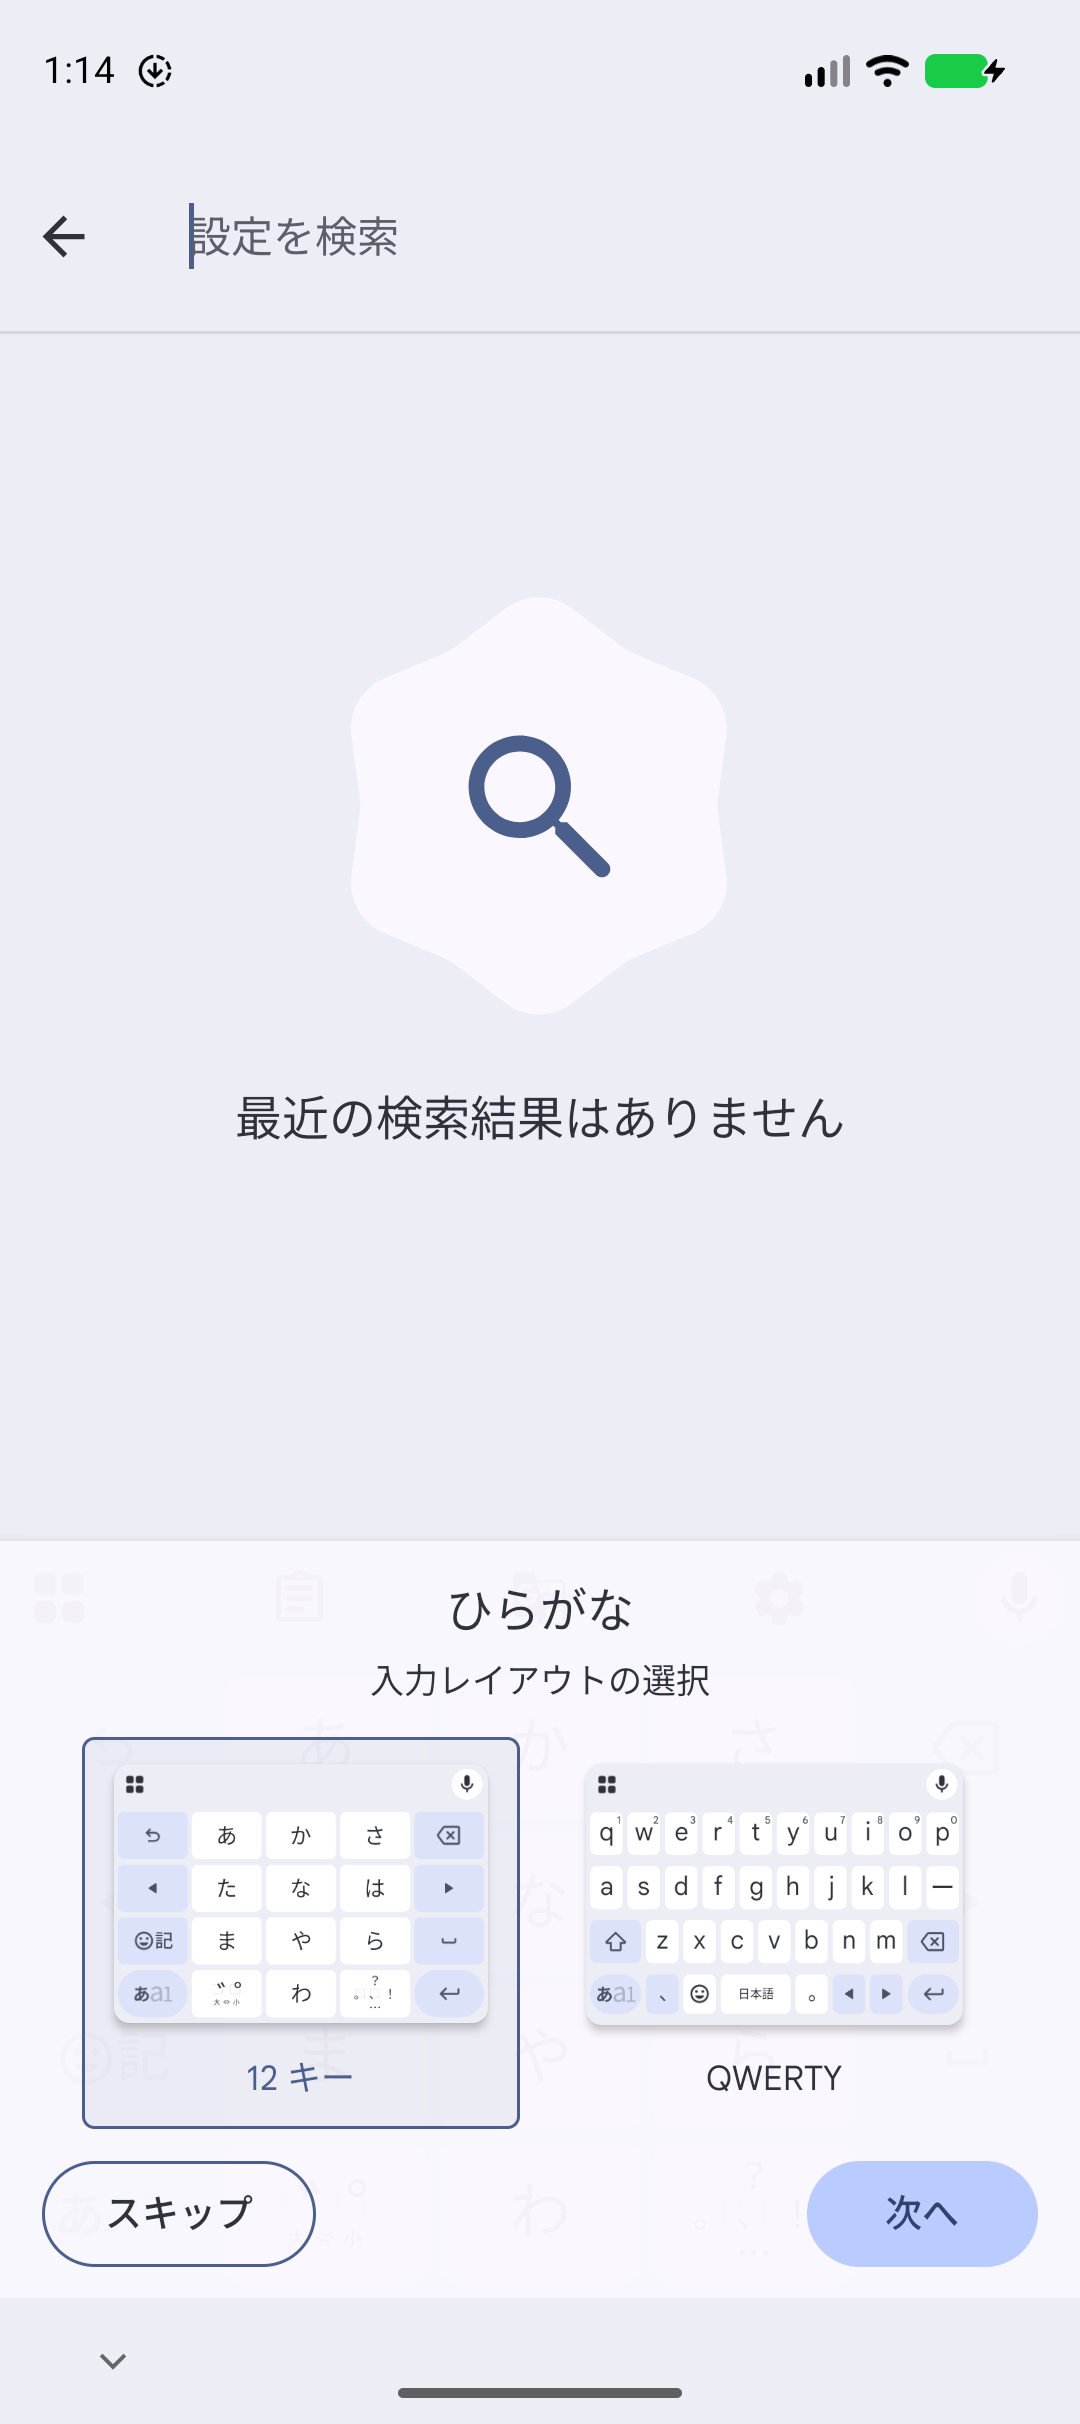
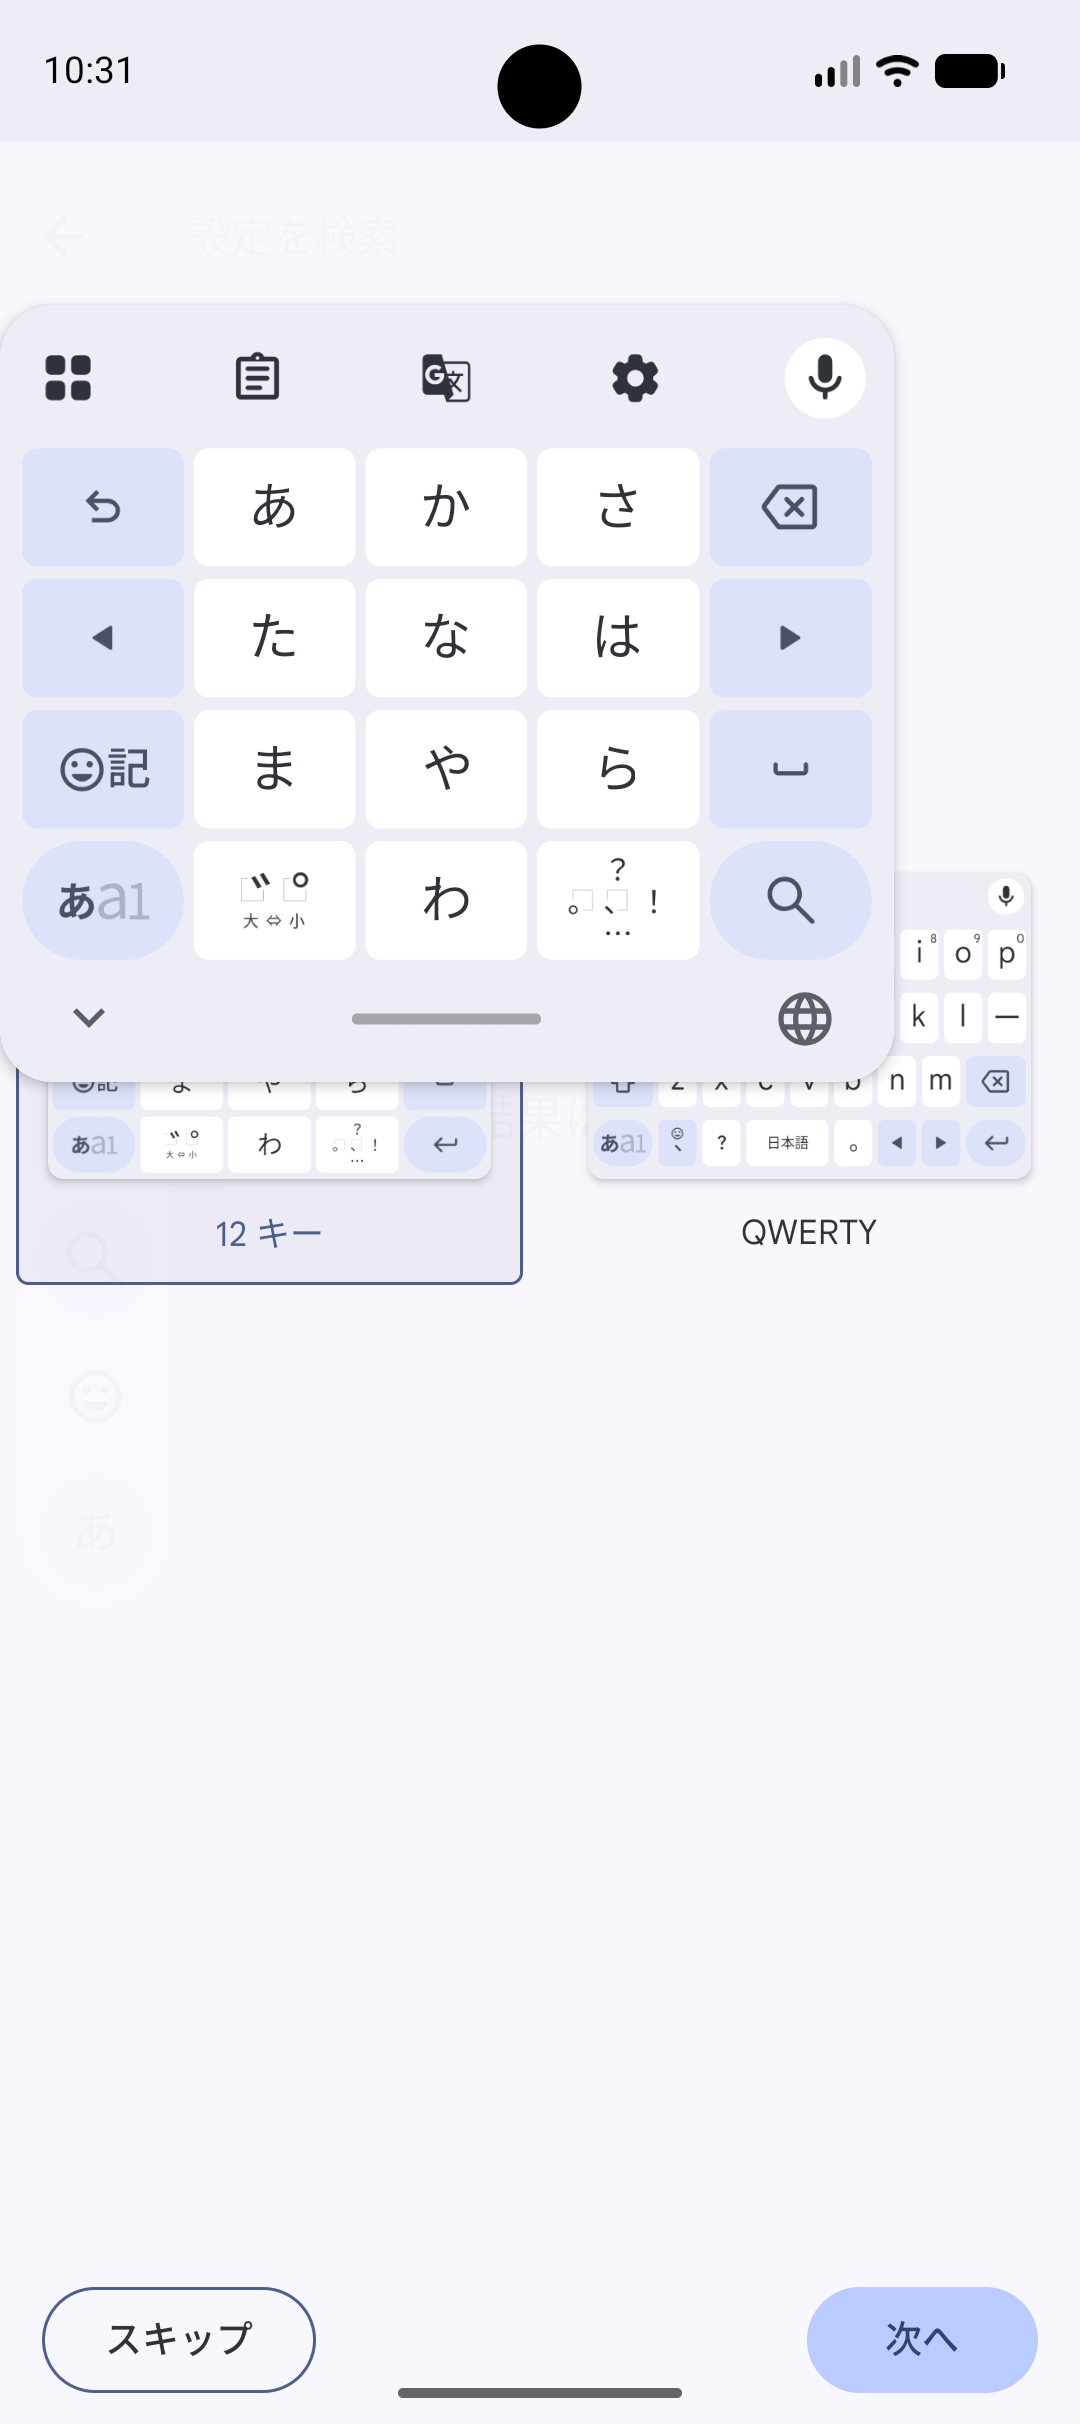
共通資料（setup.html）：不要セクション「9. 動くことを確かめる」の削除と日本語キーボード設定手順の補強

diff --git a/docs/common/setup.html b/docs/common/setup.html
@@ -8,10 +8,10 @@
 <main id="main"><div class="hero"><p class="eyebrow">ANDROID PROGRAMMING 1 / 共通資料・授業サポート</p><h1>授業を始めるまでの<br>準備</h1><p class="lede">教材を受け取ってから、最初のアプリが動くまで。上から順に1回だけ行います。2回目からは、教科書を開くところから始められます。</p></div>
 
 <section id="flow"><h2>この資料の流れ</h2>
-<div class="flow"><strong>① 教材を受け取る</strong><span>→</span><strong>② Android Studio</strong><span>→</span><strong>③ 置き場を作る</strong><span>→</span><strong>④ adbの準備</strong><span>→</span><strong>⑤ エミュレータ</strong><span>→</span><strong>⑥ 日本語にする</strong><span>→</span><strong>⑦ キーボード</strong><span>→</span><strong>⑧ ほかの設定</strong><span>→</span><strong>⑨ 動かして確かめる</strong></div>
+<div class="flow"><strong>① 教材を受け取る</strong><span>→</span><strong>② Android Studio</strong><span>→</span><strong>③ 置き場を作る</strong><span>→</span><strong>④ adbの準備</strong><span>→</span><strong>⑤ エミュレータ</strong><span>→</span><strong>⑥ 日本語にする</strong><span>→</span><strong>⑦ キーボード</strong><span>→</span><strong>⑧ ほかの設定</strong></div>
 <p>番号は、下の見出しの番号と同じです。③・④・⑥では、Terminal（ターミナル）に文字を打ちます。そのほかは、FinderやAndroid Studio、エミュレータの画面を操作します。</p>
 <div class="note"><p class="box-title">つまずいたら、そこで止めて先生を呼んでください</p><p>各ステップに「成功の目印」があります。目印と違う画面になったら、先に進まずに、その画面のまま先生に見せてください。前に戻ってやり直すより早く終わります。</p></div>
-<div class="goal"><p class="box-title">この準備が終わると</p><p>自分のMacで、日本語が打てるAndroidの練習用端末が動き、A01の完成アプリを実行できる状態になります。</p></div></section>
+<div class="goal"><p class="box-title">この準備が終わると</p><p>自分のMacで、日本語が打てるAndroidの練習用端末が動く状態になります。</p></div></section>
 
 <section id="materials"><h2>1. 教材を受け取り、「書類」に置く</h2>
 <p>授業で使う教科書（きょうかしょ）は、Google Classroomで配られます。ファイルを1つダウンロードし、置き場所を決めるところまでを行います。</p>
@@ -114,10 +114,22 @@ emulator-5554	device</code></pre>
 <p>エミュレータの画面で操作します。文字を入力できるところなら、どこでも構いません。</p>
 <ol>
 <li>エミュレータで、文字を入力する欄を<strong>タップ</strong>します。設定アプリの「設定を検索」の欄が分かりやすいです。</li>
-<li><strong>ひらがな　入力レイアウトの選択</strong> と出ます。左の <strong>12 キー</strong> が選ばれた状態のまま、右下の <strong>次へ</strong> をタップします。</li>
+<li>画面の左端に、縦型のツールバー（マイクや「あ」のアイコン）が出ます。Macのキーボードがつながっていると、画面キーボードが自動では開かず、このツールバーが表示されます。</li>
 </ol>
-<div class="phone"><figure><a href="images/gboard-hiragana-layout.png"><img src="images/gboard-hiragana-layout.png" width="1080" height="2424" alt="ひらがな　入力レイアウトの選択のダイアログ。左に12キー、右にQWERTYの絵が並び、左の12キーが青い枠で選ばれている。下にスキップと次へのボタンがある"></a><figcaption>左の <strong>12 キー</strong> のまま <strong>次へ</strong> をタップします。 <a href="images/gboard-hiragana-layout.png">画像を大きく開く</a></figcaption></figure></div>
+<div class="note"><p class="box-title">「物理キーボードと画面キーボードのレイアウトが一致していません」と出たとき</p><p>吹き出しが出た場合は、<strong>いいえ</strong> をタップするか、そのままにして進めて大丈夫です。</p></div>
 <ol start="3">
+<li>縦型ツールバーの一番下にある <strong>あ</strong> のアイコンをタップします。</li>
+<li>メニューが開くので、<strong>画面キーボードを表示する</strong> をタップします。</li>
+</ol>
+<div class="phones">
+<figure><a href="images/gboard-vertical-toolbar.png"><img src="images/gboard-vertical-toolbar.png" width="1080" height="2424" alt="文字入力欄をタップしたエミュレータ画面。画面左端にマイクやあなどのアイコンが並ぶ縦型ツールバーが表示され、物理キーボードの調整を確認する吹き出しが出ている"></a><figcaption>入力欄をタップすると左端に縦型ツールバーが出ます。一番下の <strong>あ</strong> をタップします。 <a href="images/gboard-vertical-toolbar.png">画像を大きく開く</a></figcaption></figure>
+<figure><a href="images/gboard-menu-show-keyboard.png"><img src="images/gboard-menu-show-keyboard.png" width="1080" height="2424" alt="あアイコンをタップして開いたメニュー画面。設定、手書き入力、画面キーボードを表示するなどの項目が並んでいる"></a><figcaption>メニューが開くので、<strong>画面キーボードを表示する</strong> をタップします。 <a href="images/gboard-menu-show-keyboard.png">画像を大きく開く</a></figcaption></figure>
+</div>
+<ol start="5">
+<li>画面キーボードと一緒に <strong>ひらがな　入力レイアウトの選択</strong> が出ます。左の <strong>12 キー</strong> が選ばれた状態のまま、右下の <strong>次へ</strong> をタップします。</li>
+</ol>
+<div class="phone"><figure><a href="images/gboard-hiragana-layout.png"><img src="images/gboard-hiragana-layout.png" width="1080" height="2424" alt="ひらがな　入力レイアウトの選択のダイアログとキーボード。左に12キー、右にQWERTYが並び、左の12キーが選ばれている。右下に次へのボタンがある"></a><figcaption>左の <strong>12 キー</strong> のまま <strong>次へ</strong> をタップします。 <a href="images/gboard-hiragana-layout.png">画像を大きく開く</a></figcaption></figure></div>
+<ol start="6">
 <li>続けて <strong>アルファベット　入力レイアウトの選択</strong> が出たら、同じように <strong>12 キー</strong> のまま <strong>完了</strong> をタップします。この2ページ目は、出ないこともあります。</li>
 <li>キーボードが出ます。数字の電話のような形で、左下に <strong>あa1</strong> というキーがあります。</li>
 </ol>
@@ -145,21 +157,11 @@ emulator-5554	device</code></pre>
 <tr><td>タイムゾーン（時計）</td><td>そのまま</td></tr>
 <tr><td>フォントサイズ（文字の大きさ）</td><td>そのまま</td></tr>
 </tbody></table>
-<div class="note"><p class="box-title">インターネット接続だけ確認してください</p><p>Macがインターネットにつながっている必要があります。キーボードの漢字の変換候補や、授業で作るアプリの動作に使います。</p></div></section>
-
-<section id="run"><h2>9. 動くことを確かめる</h2>
-<p>最後に、できあがった環境でアプリが動くことを確かめます。A01の<strong>完成プロジェクト</strong>（先生が作った見本）を開いて実行します。見本は、手順1で「書類」に置いた教材のフォルダの <code>samples</code> に、そのまま開ける形で入っています。ダウンロードも展開も要りません。</p>
-<ol>
-<li>Android Studioの最初の画面で <strong>Open</strong> をクリックします。</li>
-<li>手順1で「書類」に置いた教材のフォルダを開き、その中の <code>samples</code> フォルダを開きます。一覧にある <code>A01HelloAndroid</code> フォルダを選び、<strong>開く（Open）</strong> をクリックします。</li>
-<li>画面の下で <strong>Gradle Sync</strong> という処理が終わるまで待ちます。初回は数分かかります。</li>
-<li>上部の端末の選択欄で <code>jec_26cm_android1_Pixel 9a</code> を選び、<strong>Run ▶</strong> をクリックします。</li>
-</ol>
-<div class="check"><p class="box-title">成功の目印</p><p>エミュレータにアプリが表示され、<strong>Hello World!</strong> という文字と、その下にボタンが並んでいる。</p></div>
+<div class="note"><p class="box-title">インターネット接続だけ確認してください</p><p>Macがインターネットにつながっている必要があります。キーボードの漢字の変換候補や、授業で作るアプリの動作に使います。</p></div>
 <p>ここまでできたら、準備は終わりです。次の授業からは、教科書を開くところから始められます。</p>
 <p><a class="button-link" href="../hello-android/index.html">A01：はじめてのアプリ作りへ進む →</a></p></section>
 
-<section id="trouble"><h2>10. うまくいかないとき</h2>
+<section id="trouble"><h2>9. うまくいかないとき</h2>
 <table><thead><tr><th>出たもの・起きたこと</th><th>やってみること</th></tr></thead><tbody>
 <tr><td><code>zsh: command not found: adb</code></td><td>手順4の <code>export</code> の行をもう一度実行する。Terminalを開き直すと、毎回この状態に戻る。</td></tr>
 <tr><td><code>adb: more than one device/emulator</code></td><td>エミュレータが2つ以上起動している。1つだけにしてやり直す。</td></tr>
@@ -178,7 +180,7 @@ emulator-5554	device</code></pre>
 <li><a href="other-versions.html" data-keep-from>ちがうAndroid Studioのバージョンで進めるとき</a>（自分のMacなどで進めるとき）</li>
 </ul></section>
 
-<section><h2>公式資料</h2><ul><li><a href="https://developer.android.com/studio/install?hl=ja">Android Developers：Android Studio をインストールする</a>（手順2）</li><li><a href="https://developer.android.com/studio/intro/update?hl=ja">Android Developers：IDE および SDK ツールの更新</a>（手順4のSDK）</li><li><a href="https://developer.android.com/tools/adb?hl=ja">Android Developers：Android Debug Bridge（adb）</a>（手順4・手順6）</li><li><a href="https://developer.android.com/studio/run?hl=ja">Android Developers：アプリのビルドと実行</a>（手順9）</li></ul></section>
+<section><h2>公式資料</h2><ul><li><a href="https://developer.android.com/studio/install?hl=ja">Android Developers：Android Studio をインストールする</a>（手順2）</li><li><a href="https://developer.android.com/studio/intro/update?hl=ja">Android Developers：IDE および SDK ツールの更新</a>（手順4のSDK）</li><li><a href="https://developer.android.com/tools/adb?hl=ja">Android Developers：Android Debug Bridge（adb）</a>（手順4・手順6）</li></ul></section>
 
-<footer class="footer"><p><a href="../hello-android/index.html" data-back>← もとのページへ戻る</a></p><p>対象：macOS / Android Studio Panda 2 | 2025.3.2 · 画像：教員提供 · 確認日：2026年9月20日</p></footer></main>
+<footer class="footer"><p><a href="../hello-android/index.html" data-back>← もとのページへ戻る</a></p><p>対象：macOS / Android Studio Panda 2 | 2025.3.2 · 画像：教員提供 · 確認日：2026年9月29日</p></footer></main>
 <p class="sr-only" role="status" aria-live="polite" data-copy-status></p></body></html>
